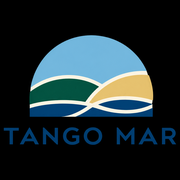
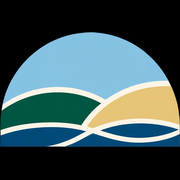
Use /login and match the public header (#5)
* Serve resident login at /login and send from mytangomar.com

Logged-out home, login, and join pages share Resident login and Request to join, with Home left off those pages. Sign-in is GET and POST /login. EMAIL_FROM is Tango Mar <donotreply@mytangomar.com>, which needs mytangomar.com verified in Resend Domains.

* Replace favicons with the new coastal semi-circle mark

Build the 512 PNG, 180 apple touch icon, and 16/32/48 ICO from Marc's updated artwork, centered on the same black square as the previous set.

---------

diff --git a/src/routes/auth.ts b/src/routes/auth.ts
@@ -5,19 +5,23 @@ import { shouldRevealMagicLink, safeNextPath } from "../lib/access";
 import { formatPlace } from "../lib/dates";
 import { resendApiKey, sendResendEmail } from "../lib/email";
 import { isHttps } from "../lib/html";
+import { NotFoundError } from "../lib/errors";
 import { logInfo } from "../lib/log";
 import { randomToken, sha256Hex } from "../lib/tokens";
 import type { AppBindings } from "../types";
 import { render } from "../views/layout";
 import { checkEmailPage, invalidLinkPage, loginPage } from "../views/public";
-import { readForm, redirectTo, requireAssociation, textValue, type AppContext } from "./common";
+import { readForm, redirectTo, textValue, type AppContext } from "./common";
+
+const HOME_SLUG = "tango-mar";
 
 const LINK_MINUTES = 20;
 const SESSION_SECONDS = 60 * 60 * 24 * 30;
 
 export function registerAuthRoutes(app: Hono<AppBindings>): void {
-  app.post("/a/:slug/login", async (c) => {
-    const association = requireAssociation(c);
+  app.post("/login", async (c) => {
+    const association = await findAssociationBySlug(c.env.DB, HOME_SLUG);
+    if (!association) throw new NotFoundError();
     const fields = await readForm(c);
     const email = textValue(fields, "email", 200).toLowerCase();
     const nextPath = safeNextPath(association.slug, textValue(fields, "next", 300));
@@ -54,7 +58,7 @@ export function registerAuthRoutes(app: Hono<AppBindings>): void {
 
   app.get("/auth/verify", async (c) => {
     const token = c.req.query("token") ?? "";
-    if (!/^[a-f0-9]{64}$/.test(token)) return renderInvalid(c, null);
+    if (!/^[a-f0-9]{64}$/.test(token)) return renderInvalid(c);
     const tokenHash = await sha256Hex(token);
     const now = new Date().toISOString();
     const link = await c.env.DB
@@ -71,16 +75,16 @@ export function registerAuthRoutes(app: Hono<AppBindings>): void {
         expires_at: string;
         used_at: string | null;
       }>();
-    if (!link || link.used_at || link.expires_at <= now) return renderInvalid(c, link?.association_id ?? null);
+    if (!link || link.used_at || link.expires_at <= now) return renderInvalid(c);
 
     const consumed = await c.env.DB
       .prepare("UPDATE magic_links SET used_at = ? WHERE id = ? AND used_at IS NULL")
       .bind(now, link.id)
       .run();
-    if ((consumed.meta.changes ?? 0) === 0) return renderInvalid(c, link.association_id);
+    if ((consumed.meta.changes ?? 0) === 0) return renderInvalid(c);
 
     const user = await findUserByEmail(c.env.DB, link.email);
-    if (!user) return renderInvalid(c, link.association_id);
+    if (!user) return renderInvalid(c);
     await c.env.DB.prepare("UPDATE users SET last_login_at = ? WHERE id = ?").bind(now, user.id).run();
 
     let destination = "/";
@@ -181,18 +185,11 @@ async function issueMagicLink(
   return shouldRevealMagicLink({ appEnv: `${c.env.APP_ENV}`, hostname: url.hostname, emailSent: sent }) ? link : null;
 }
 
-async function renderInvalid(c: AppContext, associationId: string | null): Promise<Response> {
-  let slug = "tango-mar";
-  if (associationId) {
-    const row = await c.env.DB.prepare("SELECT slug FROM associations WHERE id = ?").bind(associationId).first<{ slug: string }>();
-    if (row) slug = row.slug;
-  } else {
-    const fallback = await findAssociationBySlug(c.env.DB, "tango-mar");
-    if (!fallback) slug = "";
-  }
+function renderInvalid(c: AppContext): Promise<Response> {
   return render(c, {
     title: "Link not valid",
+    active: "login",
     status: 400,
-    body: slug ? invalidLinkPage(slug) : "<section class='panel'><h1>That link is not valid</h1></section>",
+    body: invalidLinkPage(),
   });
 }

diff --git a/test/portal.test.ts b/test/portal.test.ts
@@ -1,6 +1,7 @@
 import { describe, expect, it } from "vitest";
 import { canViewPropertyFinancials, isStaff, safeNextPath, shouldRevealMagicLink } from "../src/lib/access";
-import { checkEmailPage, homePage, joinReceivedPage, joinRequestPage, loginPage } from "../src/views/public";
+import { checkEmailPage, homePage, invalidLinkPage, joinReceivedPage, joinRequestPage, loginPage } from "../src/views/public";
+import { loggedOutNav } from "../src/views/layout";
 import type { Association } from "../src/types";
 import { parseCsv, parseOwnersCsv } from "../src/lib/csv";
 import { isIsoDate, todayIso, zonedLocalToUtc } from "../src/lib/dates";
@@ -112,11 +113,28 @@ describe("dates", () => {
   });
 });
 
+describe("logged-out header", () => {
+  it("uses Resident login and Request to join on home, login, and join", () => {
+    for (const active of ["home", "login", "join"]) {
+      expect(loggedOutNav(active)).toEqual([
+        { id: "login", href: "/login", label: "Resident login" },
+        { id: "join", href: "/join", label: "Request to join" },
+      ]);
+    }
+  });
+
+  it("keeps a Home link on other public pages", () => {
+    expect(loggedOutNav("legal").map((item) => item.label)).toEqual(["Home", "Resident login", "Request to join"]);
+    expect(loggedOutNav().some((item) => item.label === "Neighborhood" || item.label === "Log in")).toBe(false);
+  });
+});
+
 describe("public home", () => {
   it("offers resident login and request to join", () => {
     const html = homePage(false);
     expect(html).toContain("Resident login");
-    expect(html).toContain('href="/a/tango-mar/login"');
+    expect(html).toContain('href="/login"');
+    expect(html).not.toContain("/a/tango-mar/login");
     expect(html).toContain("Request to join");
     expect(html).toContain('href="/join"');
     expect(html).toContain(
@@ -156,6 +174,8 @@ describe("public home", () => {
       "Enter the email address associated with your association account. We'll send you a secure, one-time login link. No password required.",
     );
     expect(login).not.toContain("There is no password.");
+    expect(login).toContain('action="/login"');
+    expect(invalidLinkPage()).toContain('href="/login"');
     const check = checkEmailPage(association.name, null);
     expect(check).toContain(
       "If your email is on the Tango Mar roster, your secure sign-in link is on the way. The link expires in 20 minutes and can only be used once. After you sign in, you’ll stay logged in on this device for up to 30 days.",

diff --git a/src/views/public.ts b/src/views/public.ts
@@ -18,7 +18,7 @@ export function homePage(showDemo: boolean): string {
       <h1>Tango Mar</h1>
       <p class="lede">Welcome to your neighborhood dashboard. Here you can access association information, community documents, announcements, account details, and other resources for homeowners of the Tango Mar Property Owners Association.</p>
       <p class="actions">
-        <a class="button" href="/a/tango-mar/login">Resident login</a>
+        <a class="button" href="/login">Resident login</a>
         <a class="button secondary" href="/join">Request to join</a>
       </p>
     </section>
@@ -69,7 +69,7 @@ export function loginPage(association: Association, nextPath: string, error = ""
     <h1>Sign in to ${esc(association.name)} Dashboard</h1>
     <p>Enter the email address associated with your association account. We'll send you a secure, one-time login link. No password required.</p>
     ${error ? `<p class="flash warn">${esc(error)}</p>` : ""}
-    <form class="fields" method="post" action="/a/${esc(association.slug)}/login">
+    <form class="fields" method="post" action="/login">
       <input type="hidden" name="next" value="${esc(nextPath)}">
       <label>Email<input type="email" name="email" autocomplete="email" required></label>
       <button type="submit">Email me a link</button>
@@ -88,10 +88,10 @@ export function checkEmailPage(associationName: string, devLink: string | null):
   </section>`;
 }
 
-export function invalidLinkPage(slug: string): string {
+export function invalidLinkPage(): string {
   return `<section class="panel">
     <h1>That link is not valid</h1>
     <p>It may have expired or already been used. Request a new one.</p>
-    <p><a class="button" href="/a/${esc(slug)}/login">Request a new link</a></p>
+    <p><a class="button" href="/login">Request a new link</a></p>
   </section>`;
 }

diff --git a/src/views/layout.ts b/src/views/layout.ts
@@ -168,6 +168,18 @@ export function setupResponse(): Response {
   return htmlResponse(body, 503);
 }
 
+export function loggedOutNav(active?: string): { id: string; href: string; label: string }[] {
+  const items: { id: string; href: string; label: string }[] = [];
+  if (active !== "home" && active !== "join" && active !== "login") {
+    items.push({ id: "home", href: "/", label: "Home" });
+  }
+  items.push(
+    { id: "login", href: "/login", label: "Resident login" },
+    { id: "join", href: "/join", label: "Request to join" },
+  );
+  return items;
+}
+
 export async function render(
   c: AppContext,
   options: { title: string; active?: string; body: string; status?: number },
@@ -198,14 +210,8 @@ export async function render(
       { id: "notices", href: `${base}/notices`, label: unread > 0 ? `Notices (${unread})` : "Notices" },
     );
     if (isStaff(membership.role_id)) items.push({ id: "admin", href: `${base}/admin`, label: "Admin" });
-  } else if (association) {
-    items.push({ id: "login", href: `${base}/login`, label: "Log in" });
   } else {
-    if (options.active !== "home") items.push({ id: "home", href: "/", label: "Home" });
-    items.push(
-      { id: "login", href: "/a/tango-mar/login", label: "Resident login" },
-      { id: "join", href: "/join", label: "Request to join" },
-    );
+    items.push(...loggedOutNav(options.active));
   }
 
   const nav = items

diff --git a/src/routes/public.ts b/src/routes/public.ts
@@ -129,8 +129,9 @@ export function registerPublicRoutes(app: Hono<AppBindings>): void {
     return c.redirect("/", 302);
   });
 
-  app.get("/a/:slug/login", async (c) => {
-    const association = requireAssociation(c);
+  app.get("/login", async (c) => {
+    const association = await findAssociationBySlug(c.env.DB, HOME_SLUG);
+    if (!association) throw new NotFoundError();
     const nextPath = safeNextPath(association.slug, c.req.query("next") ?? "");
     return render(c, { title: `Sign in · ${association.name}`, active: "login", body: loginPage(association, nextPath) });
   });

diff --git a/src/routes/common.ts b/src/routes/common.ts
@@ -19,7 +19,7 @@ export function requireMember(c: AppContext): { association: Association; user: 
   const membership = c.get("membership");
   if (!user || !membership || membership.status === "inactive") {
     const path = new URL(c.req.url).pathname;
-    throw new RedirectError(`/a/${association.slug}/login?next=${encodeURIComponent(path)}`);
+    throw new RedirectError(`/login?next=${encodeURIComponent(path)}`);
   }
   return { association, user, membership };
 }

diff --git a/worker-configuration.d.ts b/worker-configuration.d.ts
@@ -5,7 +5,7 @@ interface __BaseEnv_Env {
 	DOCUMENTS: R2Bucket;
 	DB: D1Database;
 	APP_ENV: "production";
-	EMAIL_FROM: "Tango Mar <onboarding@resend.dev>";
+	EMAIL_FROM: "Tango Mar <donotreply@mytangomar.com>";
 }
 declare namespace Cloudflare {
 	interface GlobalProps {

diff --git a/README.md b/README.md
@@ -143,7 +143,7 @@ Production:
 npx wrangler secret put RESEND_API_KEY
 ```
 
-`EMAIL_FROM` is a normal var. The default `Tango Mar <onboarding@resend.dev>` works with Resend's test sender. For a real domain, change `EMAIL_FROM` in `wrangler.jsonc` to a verified sender, for example `Tango Mar <board@your-domain>`.
+`EMAIL_FROM` is a normal var: `Tango Mar <donotreply@mytangomar.com>`. mytangomar.com must be verified in Resend Domains before those messages can send.
 
 Local secrets, if you want to send real mail from `wrangler dev`, go in `.dev.vars` (gitignored):
 
